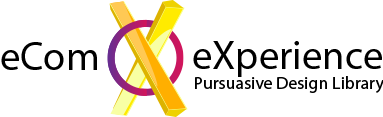
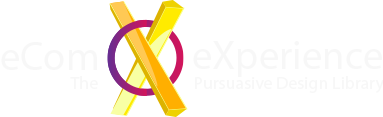
mend

Changed region(s): [[0.4883, 0.3333, 1.0, 0.7949], [0.0, 0.359, 0.2585, 0.6154], [0.7467, 0.359, 0.8042, 0.3846]]

diff --git a/ux-portal/style.css b/ux-portal/style.css
@@ -1,2 +1,2 @@
-body,html{height:100%}body{background:#1d2130;padding:0;margin:0;font-family:Arial,Helvetica,sans-serif;color:#000}.wrapper{margin:0 auto;padding:1em;max-width:960px}.logo2{background:url(mini-basket3.png);background-repeat:no-repeat;background-color:#fff;background-position-x:90%;margin:1em;padding:0;height:117px}@media only screen and (max-width:520px){.logo2{background-position-x:center;background-position-y:center;background-size:90%}}h3{color:#fff}a[href*="github.com"]{position:absolute;top:1em;right:1em}a[href*="github.com"]:before{content:"";width:1.1em;height:1.1em;display:inline-block;position:relative;top:4px;background:url(https://vinkcode.github.io/images/Octocat.png);background-size:contain;background-repeat:no-repeat;border-radius:4px}img{display:none}a{text-decoration:none;text-shadow:none}a,a:hover{color:#063754}a:hover{text-decoration:underline}section{position:relative;color:#fff;background:#708090;margin:1em;padding:1em;text-shadow:#000 1px 1px}section .col{display:flex;flex-direction:row}section .col>div{flex-grow:1;flex-basis:0}section .col>div>a button{position:absolute;right:1em;bottom:1em;padding:1em;border-radius:4px;color:#fff;font-weight:700;background:#941153;border:0;border-radius:0;text-shadow:1px 1px #000}
+body,html{height:100%}body{background:#1d2130;padding:0;margin:0;font-family:Arial,Helvetica,sans-serif;color:#000}.wrapper{margin:0 auto;padding:1em;max-width:960px}.logo2{background:url(mini-basket3.png);background-repeat:no-repeat;background-color:#111423;background-position-x:90%;margin:1em;padding:0;height:117px}@media only screen and (max-width:520px){.logo2{background-position-x:center;background-position-y:center;background-size:90%}}h3{color:#fff}a[href*="github.com"]{position:absolute;top:1em;right:1em}a[href*="github.com"]:before{content:"";width:1.1em;height:1.1em;display:inline-block;position:relative;top:4px;background:url(https://vinkcode.github.io/images/Octocat.png);background-size:contain;background-repeat:no-repeat;border-radius:4px}img{display:none}a{text-decoration:none;text-shadow:none}a,a:hover{color:#063754}a:hover{text-decoration:underline}section{position:relative;color:#fff;background:#708090;margin:1em;padding:1em;text-shadow:#000 1px 1px}section .col{display:flex;flex-direction:row}section .col>div{flex-grow:1;flex-basis:0}section .col>div>a button{position:absolute;right:1em;bottom:1em;padding:1em;border-radius:4px;color:#fff;font-weight:700;background:#941153;border:0;border-radius:0;text-shadow:1px 1px #000}
 /*# sourceMappingURL=style.css.map */
